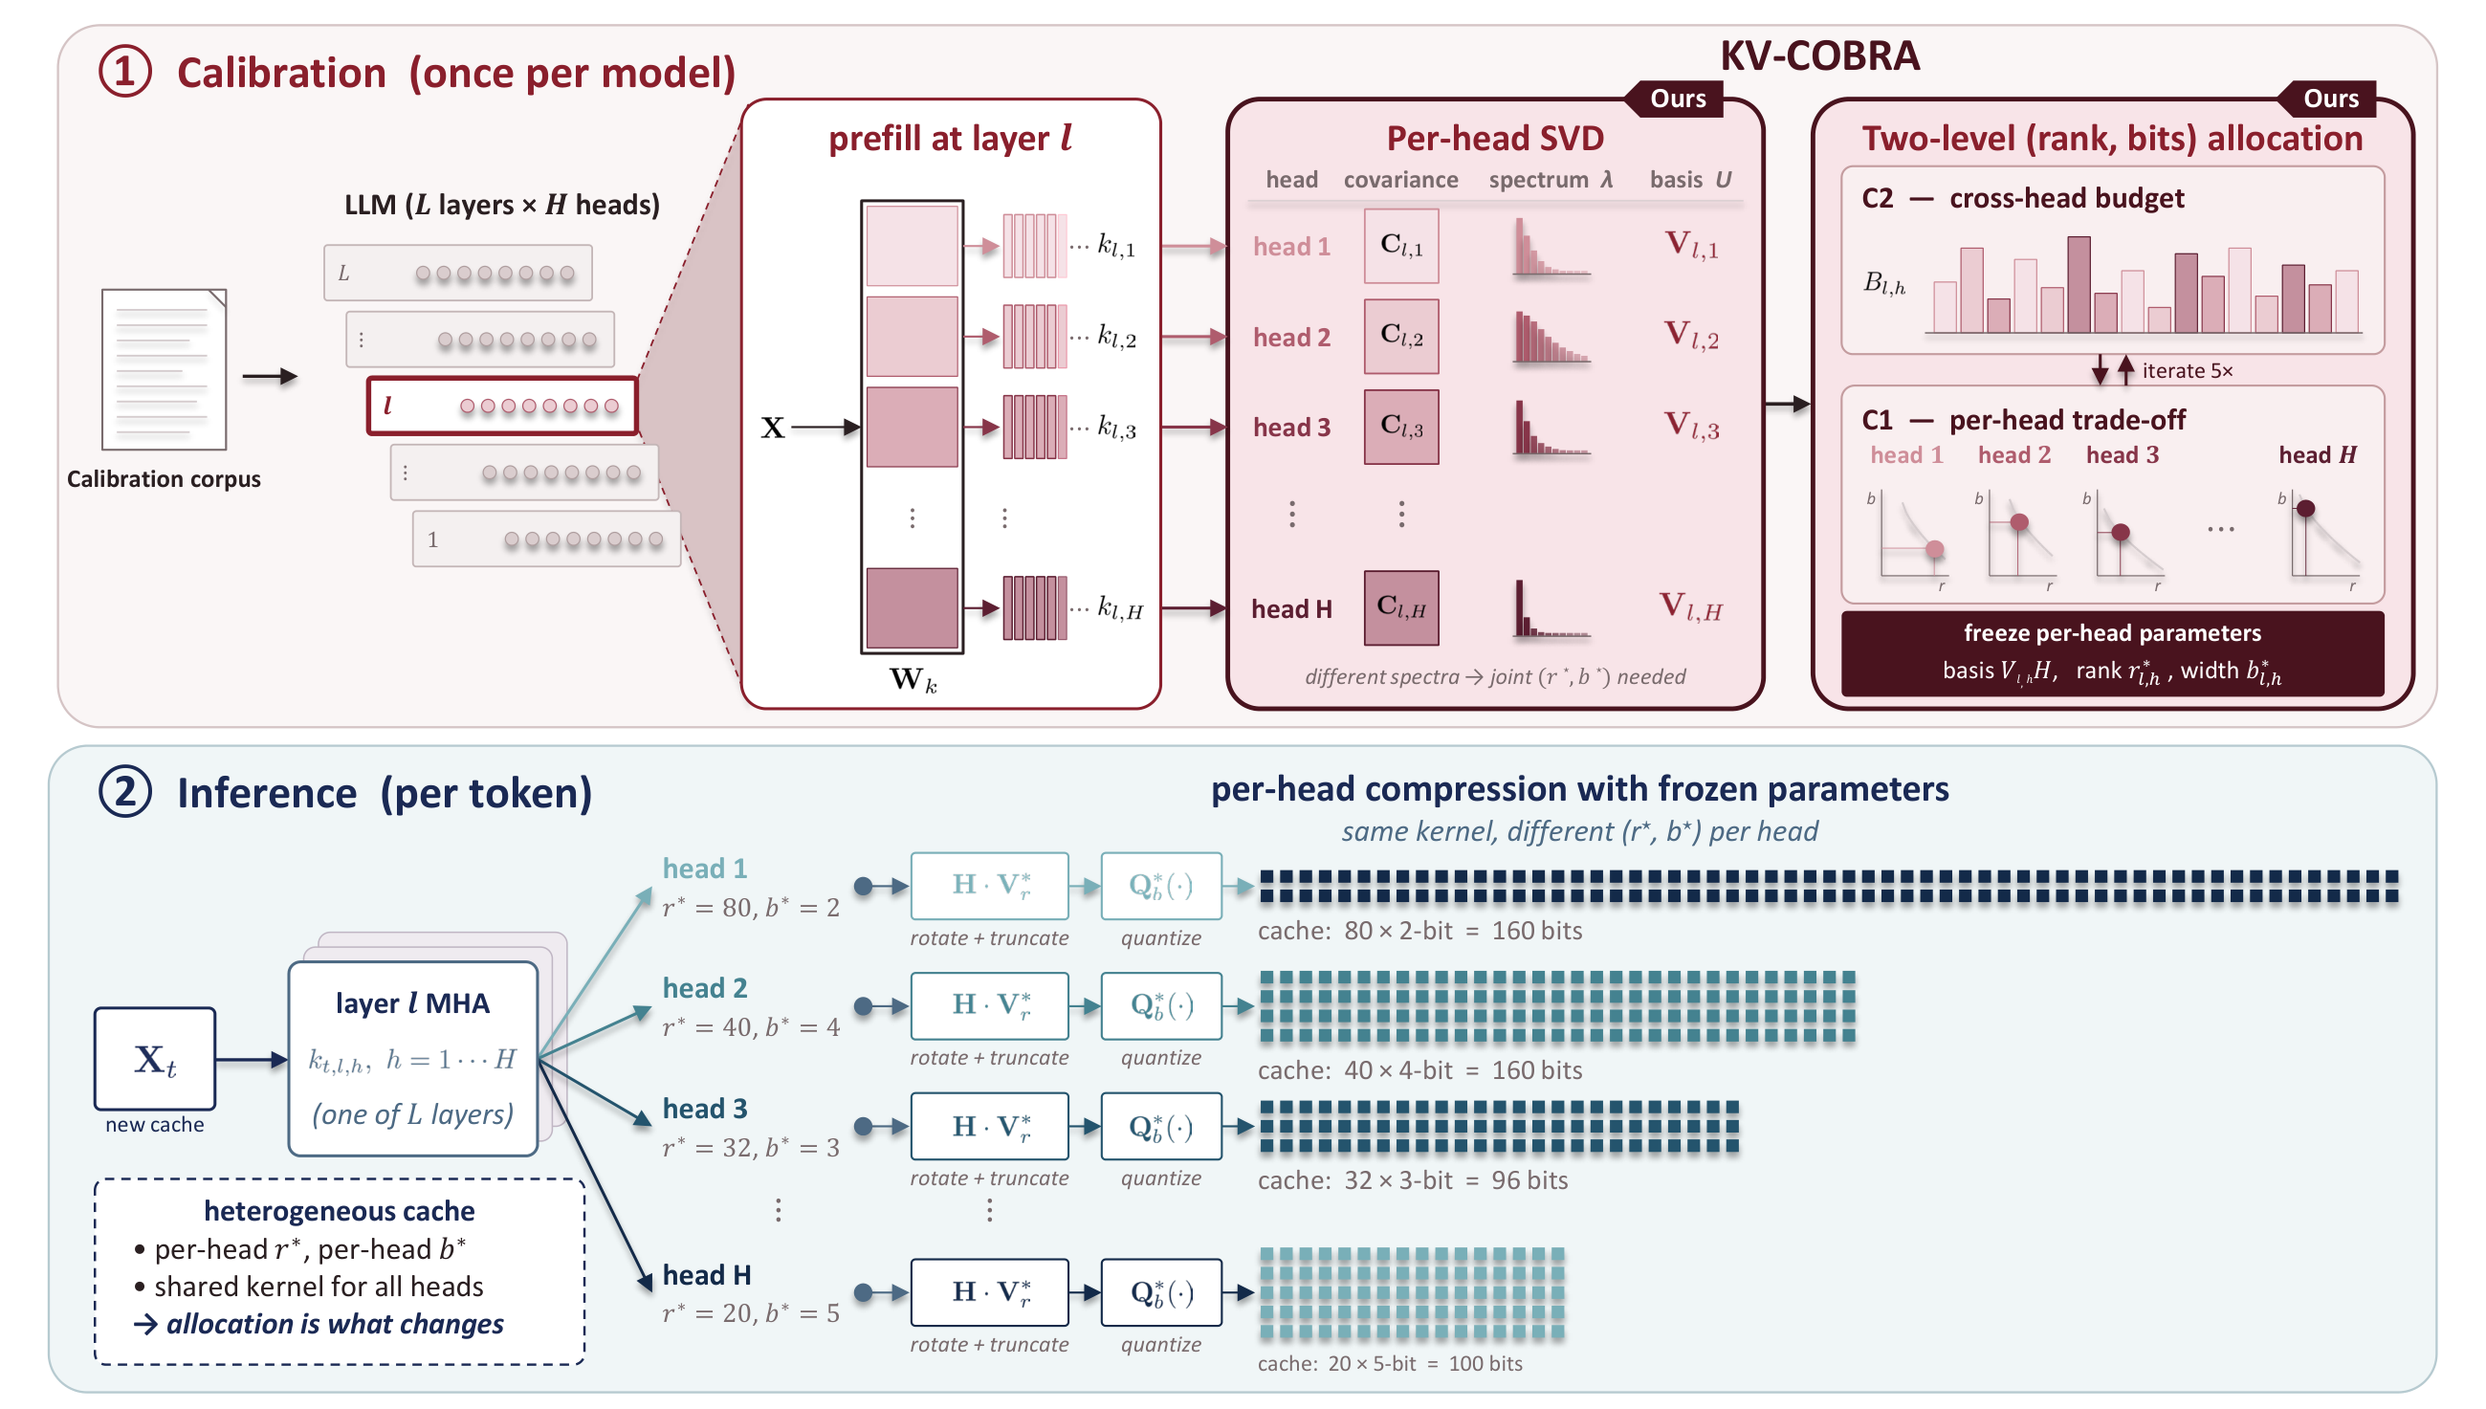
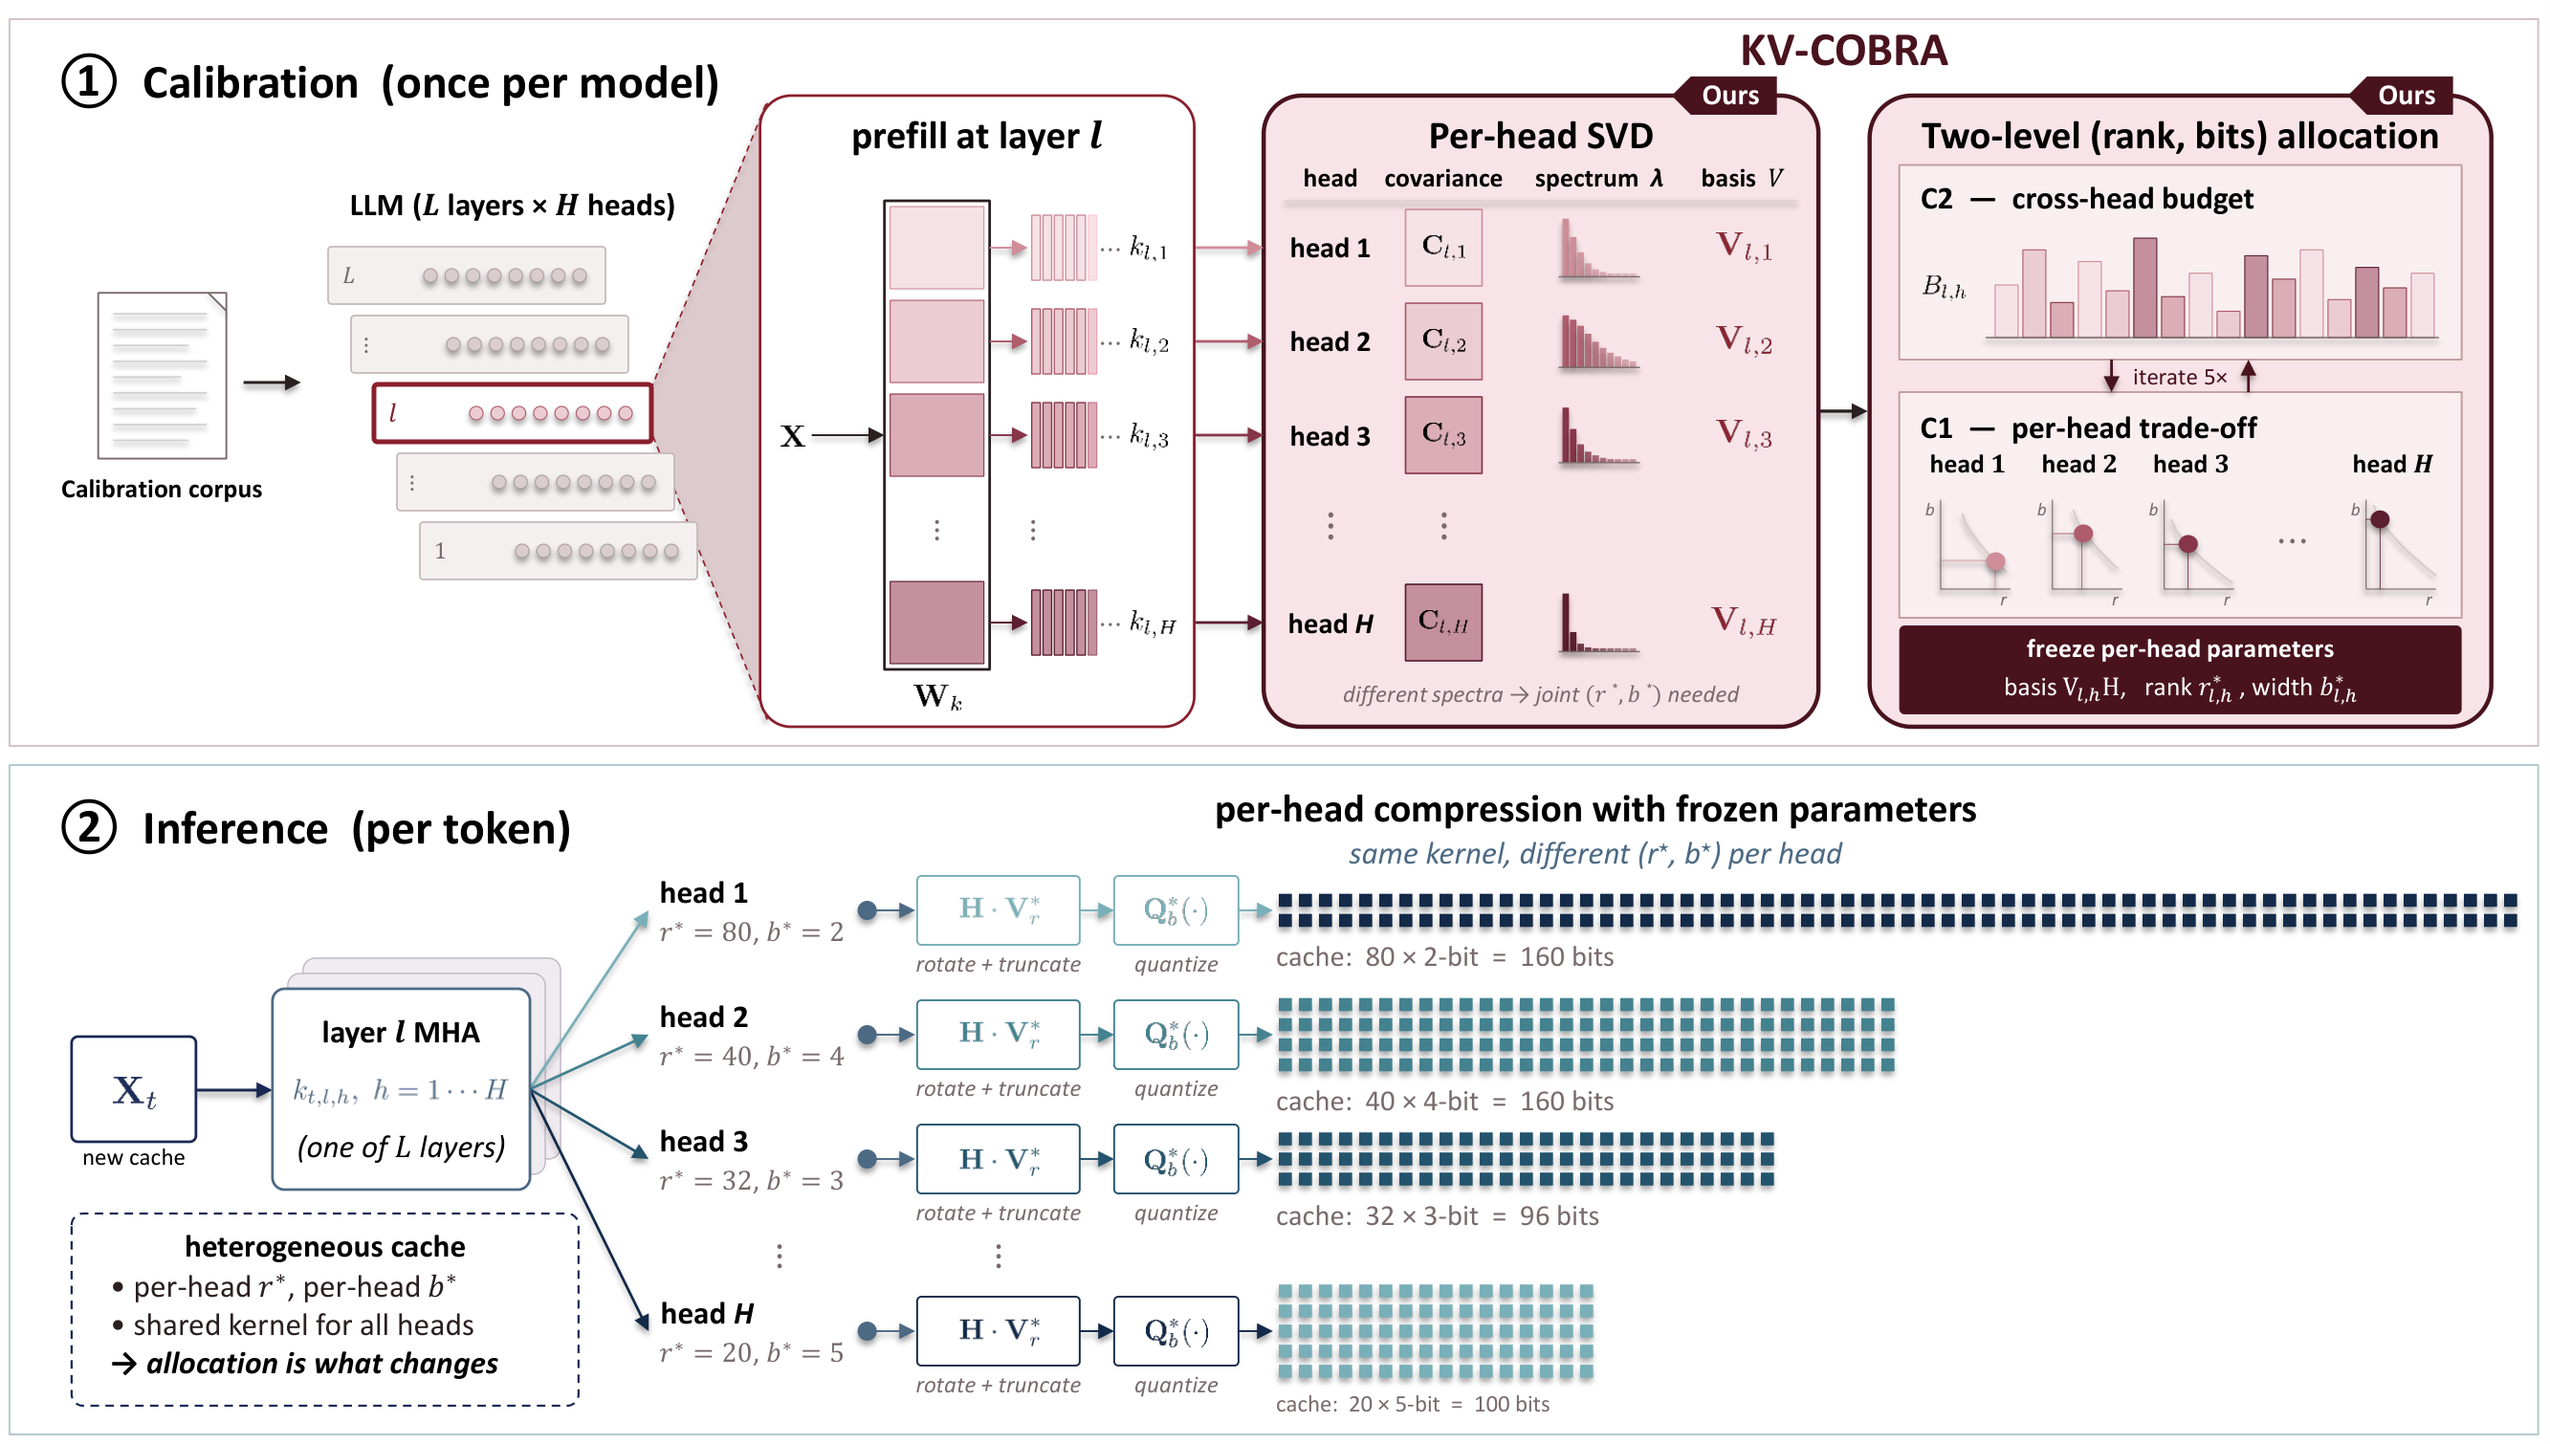
Project page: new pipeline figure, captions and wording aligned with the paper

diff --git a/index.html b/index.html
@@ -146,9 +146,10 @@
       <img src="static/images/hero.png"
       class="interpolation-image"
       alt="KV-COBRA overview"
-      style="width: 100%; display: block; margin: 0 auto; margin-bottom: 1.5rem;" />
+      style="width: 100%; display: block; margin: 0 auto;" />
+      <p class="kv-fig-cap" style="margin-bottom: 1.5rem;"><strong>(a)</strong> The spectrum sets (r*, b*): one head against the layer's 7 others. <strong>(b)</strong> Heads differ: per-head distortion at a uniform 2 bpd spans 100&times; across 256 KV heads. <strong>(c)</strong> The Hadamard rotation flattens the per-channel variance of the retained subspace.</p>
       <div class="kv-tldr content has-text-justified">
-        <strong>TL;DR.</strong> At extreme bit rates, what limits KV-cache compression is not the quantizer but how the bit budget is split across attention heads. KV-COBRA chooses the retained rank and the bit-width of every head jointly, moves budget to the heads that need it, and keeps the standard rotate-and-quantize kernel. The cache stays usable down to 0.5 bits per dimension.
+        <strong>TL;DR.</strong> The bottleneck of low-bit KV compression is allocation across heads, not the kernel itself. KV-COBRA picks the retained rank and the bit-width of every head jointly, redistributes the budget across heads, and reuses the standard rotate-and-quantize kernel. It stays accurate down to 0.5 bits per dimension with no per-token overhead.
       </div>
     </div>
   </div>
@@ -161,26 +162,26 @@
     <div class="columns is-centered has-text-centered is-variable is-3">
       <div class="column">
         <div class="kv-stat">
-          <div class="kv-num">&gt;100&times;</div>
-          <div class="kv-lbl">spread in per-head distortion under a uniform 2-bpd budget (LLaMA-3.1-8B, 256 KV heads)</div>
+          <div class="kv-num">100&times;</div>
+          <div class="kv-lbl">spread of per-head distortion at a uniform 2 bpd across the 256 KV heads of LLaMA-3.1-8B</div>
         </div>
       </div>
       <div class="column">
         <div class="kv-stat">
           <div class="kv-num">0.5 bpd</div>
-          <div class="kv-lbl">lowest budget evaluated, where uniform-allocation baselines collapse</div>
+          <div class="kv-lbl">KV-COBRA stays accurate where uniform-allocation baselines collapse</div>
         </div>
       </div>
       <div class="column">
         <div class="kv-stat">
           <div class="kv-num">1.8&times;</div>
-          <div class="kv-lbl">faster attention primitive than FP16 SDPA at rank 16, 32k&ndash;128k tokens</div>
+          <div class="kv-lbl">faster attention primitive than FP16 SDPA at r = 16, from 32k to 128k tokens</div>
         </div>
       </div>
       <div class="column">
         <div class="kv-stat">
           <div class="kv-num">0</div>
-          <div class="kv-lbl">per-token overhead: allocation runs once at calibration, in under 200 ms</div>
+          <div class="kv-lbl">per-token overhead: the C1+C2 allocation runs once at calibration, in under 200 ms</div>
         </div>
       </div>
     </div>
@@ -221,9 +222,10 @@
           <img src="static/images/pipeline.png"
                class="interpolation-image"
                alt="KV-COBRA pipeline"
-               style="max-width: 100%; margin: 0.5rem 0 1rem;" />
+               style="max-width: 100%; margin: 0.5rem 0 0;" />
+          <p class="kv-fig-cap" style="margin-bottom: 1.25rem;"><strong>Calibration.</strong> Per-head SVD of prefill keys; a two-level C1+C2 allocator freezes the basis, rank r* and bit-width b* of every head. <strong>Inference.</strong> Each key is rotated and truncated with H&middot;V<sup>T</sup> and quantized with its head's b*-bit quantizer. The kernel is shared by all heads; only the allocation changes.</p>
           <p>
-            <strong>C1, per head.</strong> For a head budget <em>B</em>, enumerate the even ranks with <em>b</em> = <em>B</em>/<em>r</em> and keep the pair with the smallest <em>D</em>. At the optimum, the truncation loss saved by two more directions equals the extra quantization loss on the retained ones.
+            <strong>C1, per head.</strong> For a head budget <em>B</em>, enumerate the even ranks <em>r</em>, set <em>b</em> &asymp; <em>B</em>/<em>r</em> clipped to [2, 8], and keep the pair with the smallest <em>D</em>, an O(<em>d</em>/2) search. At the optimum, the projection loss saved by two more directions matches the quantization loss added on the retained ones.
           </p>
           <p>
             <strong>C2, across heads.</strong> With C1 as an oracle, move budget between heads until their marginal distortions equalize, the water-filling condition of rate-distortion theory. A damped update converges in five rounds.
@@ -293,7 +295,7 @@
                class="interpolation-image"
                alt="Results across bit rates"
                style="display: block; max-width: 82%; margin: 1.5rem auto 0;" />
-          <p class="kv-fig-cap">Sweep from 0.5 to 4 bits per dimension against KIVI, KVQuant, GEAR, TurboQuant, SVDq and KQ-SVD. Dashed lines mark FP16.</p>
+          <p class="kv-fig-cap">Main k-only results from 0.5 to 4 bits per dimension against KIVI, KVQuant, GEAR, TurboQuant, SVDq and KQ-SVD. Dashed lines mark FP16; error bars are &plusmn;1 SD over 5 seeds.</p>
           <p>
             Above 2 bpd the allocator barely matters. Below it, the methods separate: integer-only quantizers cannot reach the regime, uniform-budget SVD baselines degrade sharply, and KV-COBRA<sub>KL</sub> degrades most gracefully, nearly doubling the LongBench F1 of the integer-only baselines at a nominal 1-bpd budget. KV-COBRA<sub>MSE</sub> wins on perplexity and KV-COBRA<sub>KL</sub> on LongBench, the split the two objectives predict. The pattern carries over to LLaMA-3.1-70B, Qwen2.5-72B and Mixtral-8x7B.
           </p>
